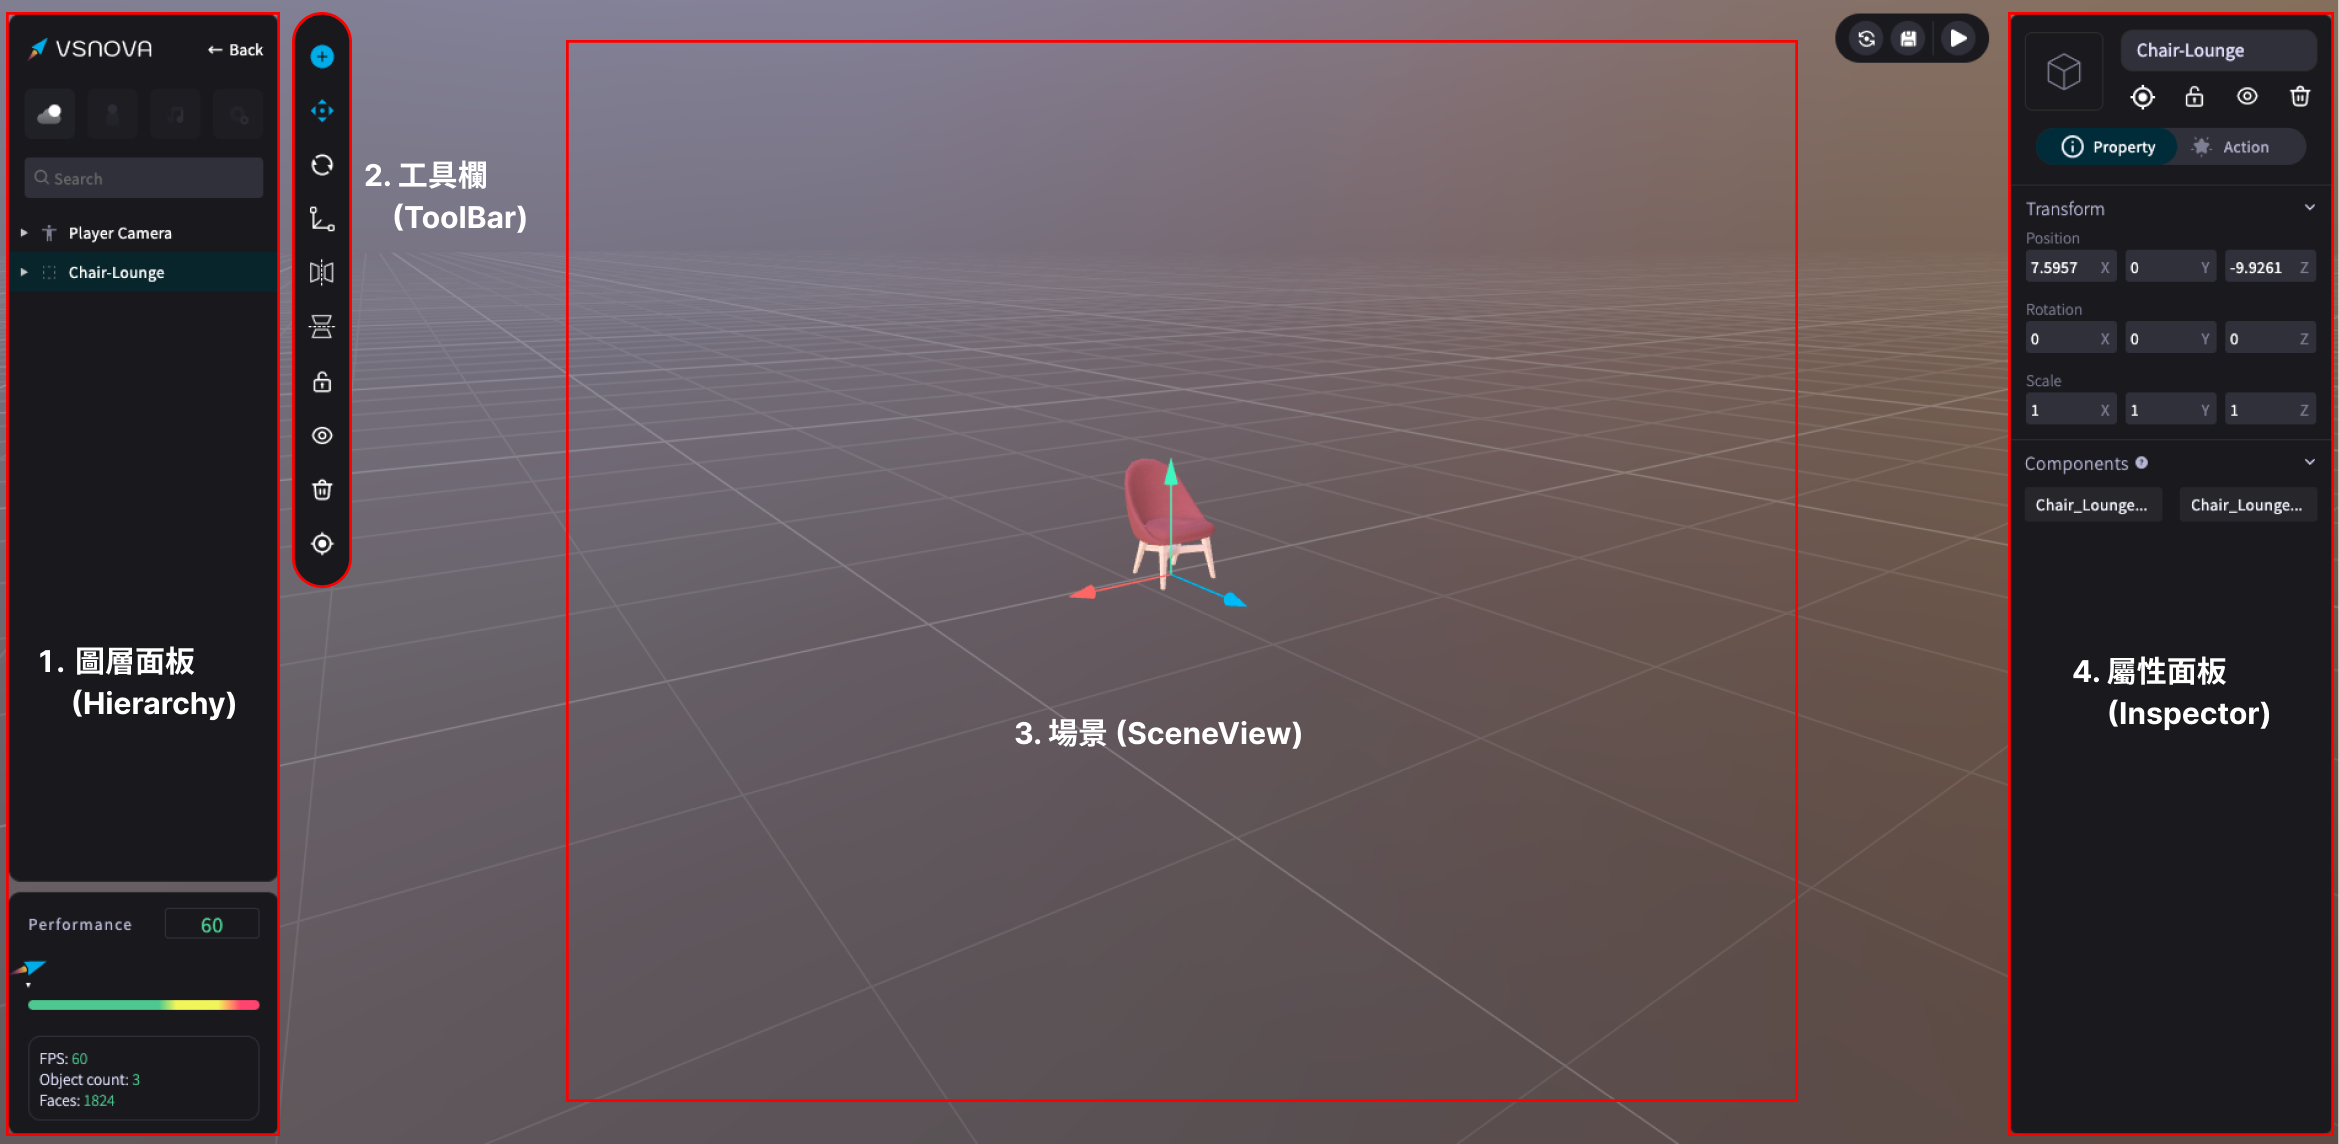
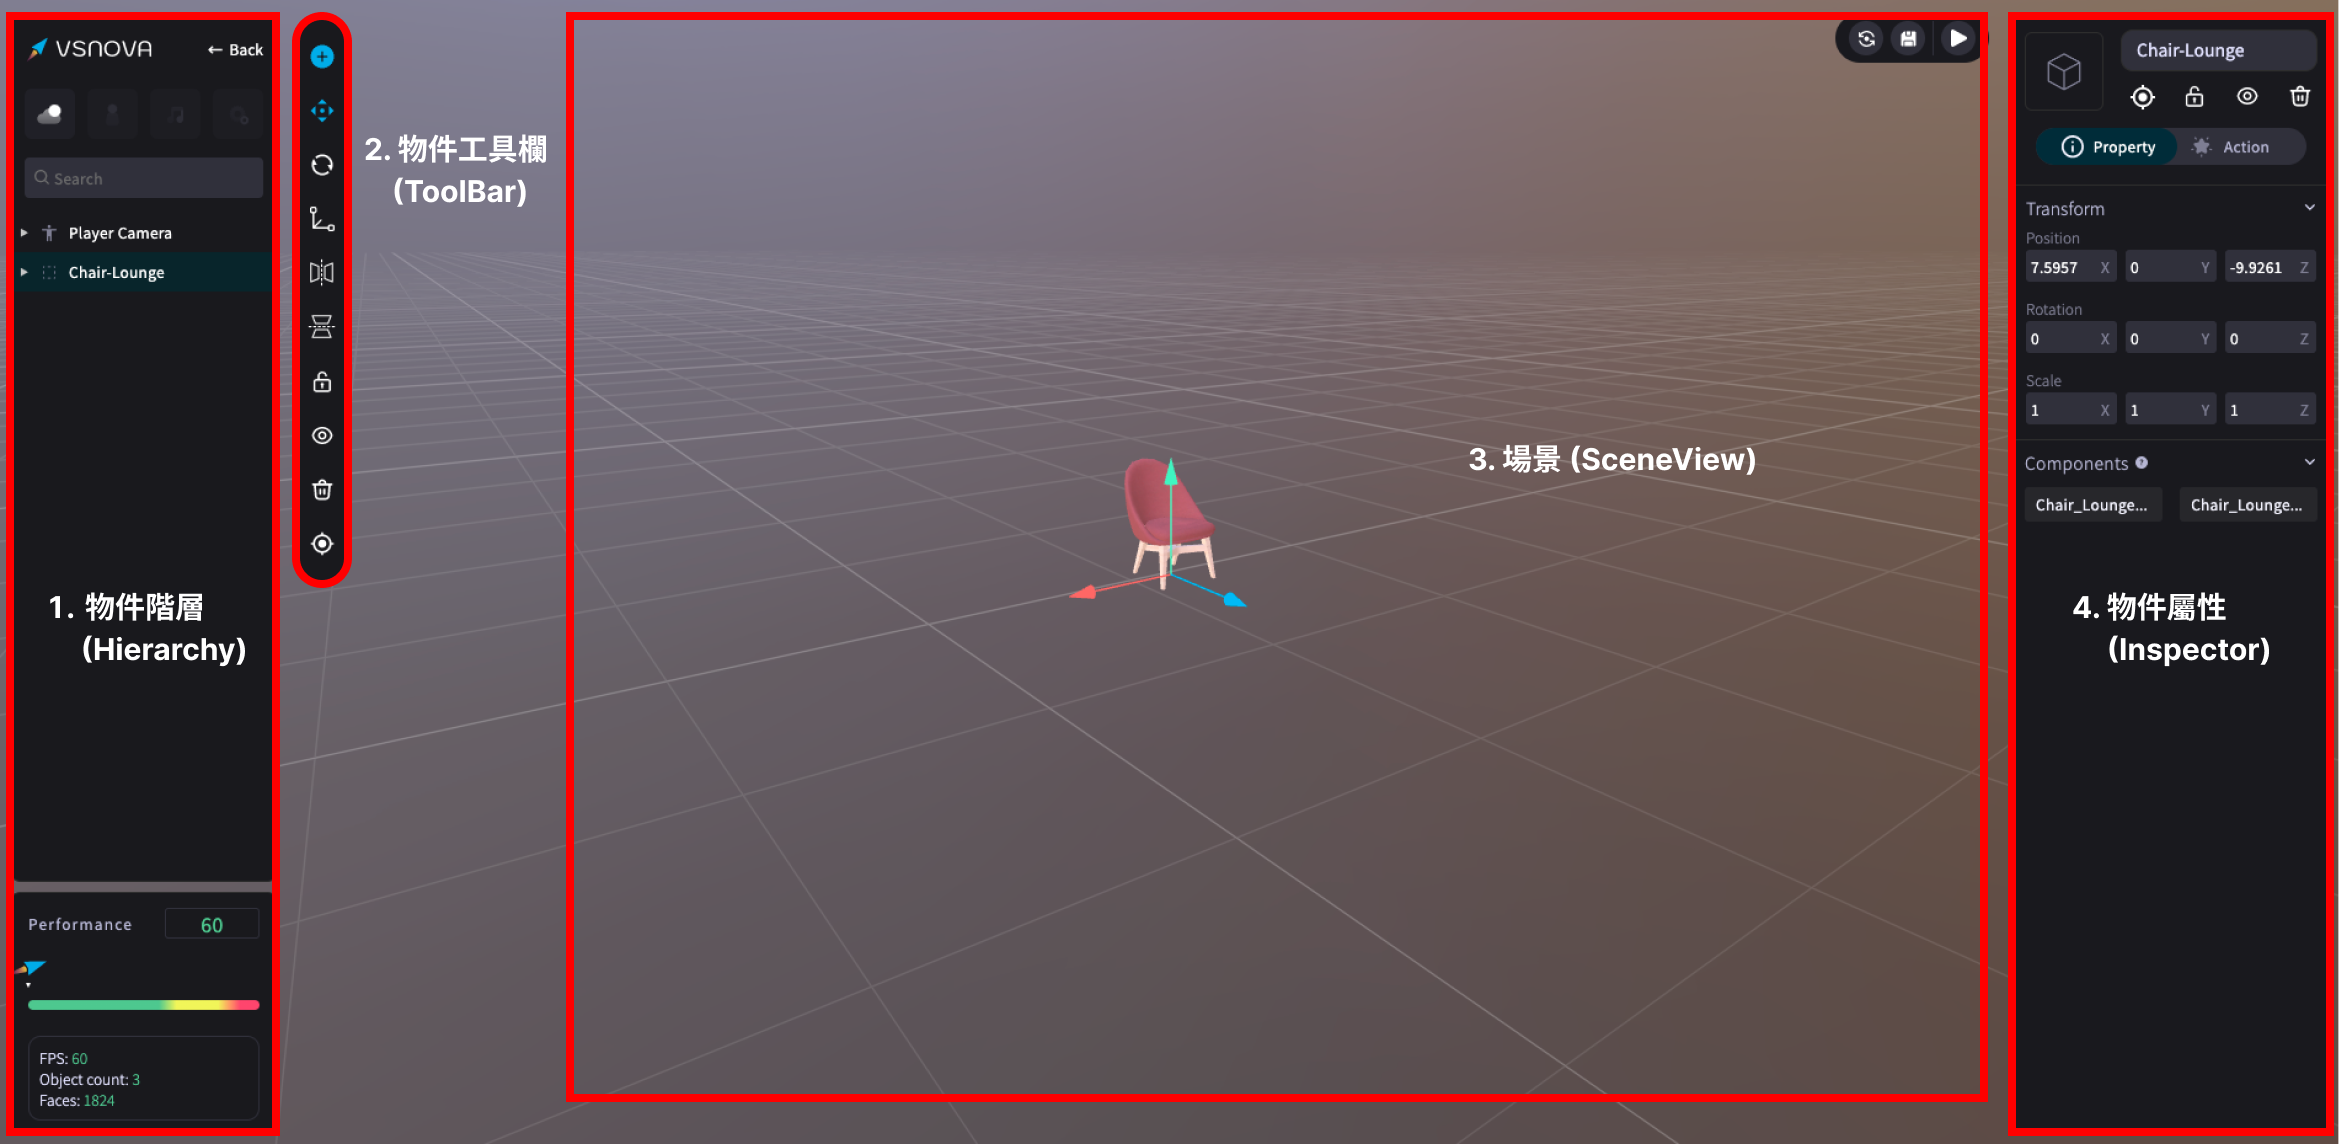
GITBOOK-92: No subject

diff --git a/SUMMARY.md b/SUMMARY.md
@@ -57,6 +57,28 @@
 ## 自由編輯模式
 
 * [自由編輯模式操作介紹](zi-you-bian-ji-mo-shi/zi-you-bian-ji-mo-shi-cao-zuo-jie-shao.md)
+* [視角控制](zi-you-bian-ji-mo-shi/shi-jiao-kong-zhi.md)
+* [物件階層 (Hierarchy)](zi-you-bian-ji-mo-shi/wu-jian-jie-ceng-hierarchy/README.md)
+  * [環境背景設定](zi-you-bian-ji-mo-shi/wu-jian-jie-ceng-hierarchy/huan-jing-bei-jing-she-ding.md)
+  * [物件階層清單](zi-you-bian-ji-mo-shi/wu-jian-jie-ceng-hierarchy/wu-jian-jie-ceng-qing-dan/README.md)
+    * [💡 調整參觀者視角 (Player camera)](zi-you-bian-ji-mo-shi/wu-jian-jie-ceng-hierarchy/wu-jian-jie-ceng-qing-dan/diao-zheng-can-guan-zhe-shi-jiao-player-camera.md)
+  * [場景效能檢視 (Performance)](zi-you-bian-ji-mo-shi/wu-jian-jie-ceng-hierarchy/chang-jing-xiao-neng-jian-shi-performance.md)
+* [物件工具欄 (ToolBar)](zi-you-bian-ji-mo-shi/wu-jian-gong-ju-lan-toolbar/README.md)
+  * [新增 3D 物件 (Asset Library)](zi-you-bian-ji-mo-shi/wu-jian-gong-ju-lan-toolbar/xin-zeng-3d-wu-jian-asset-library.md)
+  * [上傳自製模型](zi-you-bian-ji-mo-shi/wu-jian-gong-ju-lan-toolbar/shang-chuan-zi-zhi-mo-xing.md)
+  * [物件移動、旋轉、縮放](zi-you-bian-ji-mo-shi/wu-jian-gong-ju-lan-toolbar/wu-jian-yi-dong-xuan-zhuan-suo-fang.md)
+  * [物件水平 / 垂直翻轉](zi-you-bian-ji-mo-shi/wu-jian-gong-ju-lan-toolbar/wu-jian-shui-ping-chui-zhi-fan-zhuan.md)
+  * [物件上鎖、隱藏、刪除、瞄準](zi-you-bian-ji-mo-shi/wu-jian-gong-ju-lan-toolbar/wu-jian-shang-suo-yin-cang-shan-chu-miao-zhun.md)
+* [場景 (SceneView)](zi-you-bian-ji-mo-shi/chang-jing-sceneview/README.md)
+  * [物件三軸 (Gizmo)](zi-you-bian-ji-mo-shi/chang-jing-sceneview/wu-jian-san-zhou-gizmo.md)
+  * [場景儲存、預覽、視野回歸原點](zi-you-bian-ji-mo-shi/chang-jing-sceneview/chang-jing-chu-cun-yu-lan-shi-ye-hui-gui-yuan-dian.md)
+* [物件屬性 (Inspector)](zi-you-bian-ji-mo-shi/wu-jian-shu-xing-inspector/README.md)
+  * [物件重新命名、瞄準、上鎖、刪除](zi-you-bian-ji-mo-shi/wu-jian-shu-xing-inspector/wu-jian-zhong-xin-ming-ming-miao-zhun-shang-suo-shan-chu.md)
+  * [屬性設定 (Property)](zi-you-bian-ji-mo-shi/wu-jian-shu-xing-inspector/shu-xing-she-ding-property/README.md)
+    * [💡 物件移動、旋轉、縮放 (Transform)](zi-you-bian-ji-mo-shi/wu-jian-shu-xing-inspector/shu-xing-she-ding-property/wu-jian-yi-dong-xuan-zhuan-suo-fang-transform.md)
+    * [💡 物件碰撞 / 透明度設定 (Other)](zi-you-bian-ji-mo-shi/wu-jian-shu-xing-inspector/shu-xing-she-ding-property/wu-jian-peng-zhuang-tou-ming-du-she-ding-other.md)
+    * [💡 物件材質調整 (Material)](zi-you-bian-ji-mo-shi/wu-jian-shu-xing-inspector/shu-xing-she-ding-property/wu-jian-cai-zhi-diao-zheng-material.md)
+  * [資訊版設定 (Action)](zi-you-bian-ji-mo-shi/wu-jian-shu-xing-inspector/zi-xun-ban-she-ding-action.md)
 
 ## 服務方案
 

diff --git a/zi-you-bian-ji-mo-shi/zi-you-bian-ji-mo-shi-cao-zuo-jie-shao.md b/zi-you-bian-ji-mo-shi/zi-you-bian-ji-mo-shi-cao-zuo-jie-shao.md
@@ -24,30 +24,33 @@
 
 
 
-成功進入該空間的自由編輯器！
+成功進入該空間的自由編輯器！\
+點擊「← Back 」，即可返回上面的自由編輯空間頁 (Space Collection)。
 
-<figure><img src="../.gitbook/assets/Frame 89.png" alt=""><figcaption></figcaption></figure>
+<figure><img src="../.gitbook/assets/Frame 89 (1).png" alt=""><figcaption></figcaption></figure>
 
 
 
-自由編輯器的主要功能區域分為：
+自由編輯器的主要功能區域為：
 
-1\. 物件階層 (Hierarchy)\
-&#x20;   場景裡面全部的物件都表列於此，如果物件是由多個子物件所組成的話，也可以在此處展開。
-
-\
-2\. 工具列 (ToolBar)\
-&#x20;   針對物件常用的操作
+<mark style="color:blue;">**1. 物件階層 (Hierarchy)**</mark>\
+場景裡面全部的物件都表列於此，如果物件是由多個子物件所組成的話，也可以在此處展開。
 
 \
-3\. 場景 (SceneView)\
-&#x20;   主要會顯示你現在選擇的物件，它是最主要的編輯視窗，由三維空間(x,y,z)構成，通常會搭配商方的控  制工具來進行編輯。
+<mark style="color:blue;">**2. 工具列 (ToolBar)**</mark>\
+針對物件常用的操作。
 
 \
-4\. 物件屬性 (Inspector)
+<mark style="color:blue;">**3. 場景 (SceneView)**</mark>\
+主要會顯示你現在選擇的物件，它是最主要的編輯視窗，由三維空間(x,y,z)構成，通常會搭配物件三軸 (Gizmo) 的控制工具來進行編輯。
 
-<figure><img src="../.gitbook/assets/Frame 90 (2).png" alt=""><figcaption></figcaption></figure>
+\
+<mark style="color:blue;">**4. 物件屬性 (Inspector)**</mark>
 
 
 
-接下來將逐步介紹上述自由編輯器各區域之功能！
+<figure><img src="../.gitbook/assets/Frame 90 (4).png" alt=""><figcaption></figcaption></figure>
+
+
+
+接下來將逐步介紹自由編輯器的各項功能！

diff --git a/zi-you-bian-ji-mo-shi/wu-jian-jie-ceng-hierarchy/README.md b/zi-you-bian-ji-mo-shi/wu-jian-jie-ceng-hierarchy/README.md
@@ -1,0 +1,13 @@
+# 物件階層 (Hierarchy)
+
+物件階層 (Hierarchy) 又可分為：\
+\
+<mark style="color:blue;">**1.環境背景設定**</mark>\
+可針對場景的「環境背景」進行顏色、亮度、清晰度的調整。\
+\
+<mark style="color:blue;">**2.物件階層清單**</mark>\ <mark style="color:blue;">****</mark>列出顯示場景中的 3D 物件及其層次結構。
+
+<mark style="color:blue;">**3.場景效能檢視**</mark>\ <mark style="color:blue;">****</mark>可隨時檢查場景的當前效能，如果效能不佳，可能會導致場景卡頓或無法載入的情況。\
+
+
+<figure><img src="../../.gitbook/assets/Frame 91.png" alt=""><figcaption></figcaption></figure>

diff --git a/zi-you-bian-ji-mo-shi/shi-jiao-kong-zhi.md b/zi-you-bian-ji-mo-shi/shi-jiao-kong-zhi.md
@@ -1,0 +1,15 @@
+# 視角控制
+
+<mark style="color:blue;">**鏡頭旋轉**</mark> - 左鍵拖曳
+
+<figure><img src="../.gitbook/assets/鏡頭旋轉.gif" alt=""><figcaption></figcaption></figure>
+
+\
+<mark style="color:blue;">**鏡頭縮放**</mark> - 滑鼠滾輪 ( 觸控板：兩指滑動 )
+
+<figure><img src="../.gitbook/assets/鏡頭縮放.gif" alt=""><figcaption></figcaption></figure>
+
+\
+<mark style="color:blue;">**鏡頭平移**</mark> - 右鍵拖曳
+
+<figure><img src="../.gitbook/assets/鏡頭平移.gif" alt=""><figcaption></figcaption></figure>

diff --git a/zi-you-bian-ji-mo-shi/wu-jian-jie-ceng-hierarchy/huan-jing-bei-jing-she-ding.md b/zi-you-bian-ji-mo-shi/wu-jian-jie-ceng-hierarchy/huan-jing-bei-jing-she-ding.md
@@ -1,0 +1,9 @@
+# 環境背景設定
+
+點擊環境背景設定的「雲朵」圖示，右側則會出現不同的天空球 (Skybox) 選項。
+
+<figure><img src="../../.gitbook/assets/Frame 92.png" alt=""><figcaption></figcaption></figure>
+
+可任意選擇天空球 (Skybox) 的樣式，並進行參數的調整：能見度 (Visibility)、明亮度 (Intensity)、清晰度 (Clarity)，調整出喜歡的背景樣式。
+
+<figure><img src="../../.gitbook/assets/環境背景改變.gif" alt=""><figcaption></figcaption></figure>

diff --git a/zi-you-bian-ji-mo-shi/wu-jian-shu-xing-inspector/wu-jian-zhong-xin-ming-ming-miao-zhun-shang-suo-shan-chu.md b/zi-you-bian-ji-mo-shi/wu-jian-shu-xing-inspector/wu-jian-zhong-xin-ming-ming-miao-zhun-shang-suo-shan-chu.md
@@ -1,0 +1,6 @@
+---
+description: 物件
+---
+
+# 物件重新命名、瞄準、上鎖、刪除
+

diff --git a/zi-you-bian-ji-mo-shi/wu-jian-jie-ceng-hierarchy/chang-jing-xiao-neng-jian-shi-performance.md b/zi-you-bian-ji-mo-shi/wu-jian-jie-ceng-hierarchy/chang-jing-xiao-neng-jian-shi-performance.md
@@ -1,0 +1,6 @@
+---
+description: 檢視
+---
+
+# 場景效能檢視 (Performance)
+

diff --git a/zi-you-bian-ji-mo-shi/wu-jian-shu-xing-inspector/shu-xing-she-ding-property/wu-jian-yi-dong-xuan-zhuan-suo-fang-transform.md b/zi-you-bian-ji-mo-shi/wu-jian-shu-xing-inspector/shu-xing-she-ding-property/wu-jian-yi-dong-xuan-zhuan-suo-fang-transform.md
@@ -1,0 +1,2 @@
+# 💡 物件移動、旋轉、縮放 (Transform)
+

diff --git a/zi-you-bian-ji-mo-shi/wu-jian-shu-xing-inspector/shu-xing-she-ding-property/wu-jian-peng-zhuang-tou-ming-du-she-ding-other.md b/zi-you-bian-ji-mo-shi/wu-jian-shu-xing-inspector/shu-xing-she-ding-property/wu-jian-peng-zhuang-tou-ming-du-she-ding-other.md
@@ -1,0 +1,2 @@
+# 💡 物件碰撞 / 透明度設定 (Other)
+

diff --git a/zi-you-bian-ji-mo-shi/chang-jing-sceneview/chang-jing-chu-cun-yu-lan-shi-ye-hui-gui-yuan-dian.md b/zi-you-bian-ji-mo-shi/chang-jing-sceneview/chang-jing-chu-cun-yu-lan-shi-ye-hui-gui-yuan-dian.md
@@ -1,0 +1,2 @@
+# 場景儲存、預覽、視野回歸原點
+

diff --git a/zi-you-bian-ji-mo-shi/wu-jian-jie-ceng-hierarchy/wu-jian-jie-ceng-qing-dan/diao-zheng-can-guan-zhe-shi-jiao-player-camera.md b/zi-you-bian-ji-mo-shi/wu-jian-jie-ceng-hierarchy/wu-jian-jie-ceng-qing-dan/diao-zheng-can-guan-zhe-shi-jiao-player-camera.md
@@ -1,0 +1,2 @@
+# 💡 調整參觀者視角 (Player camera)
+

diff --git a/zi-you-bian-ji-mo-shi/wu-jian-gong-ju-lan-toolbar/wu-jian-shang-suo-yin-cang-shan-chu-miao-zhun.md b/zi-you-bian-ji-mo-shi/wu-jian-gong-ju-lan-toolbar/wu-jian-shang-suo-yin-cang-shan-chu-miao-zhun.md
@@ -1,0 +1,2 @@
+# 物件上鎖、隱藏、刪除、瞄準
+
